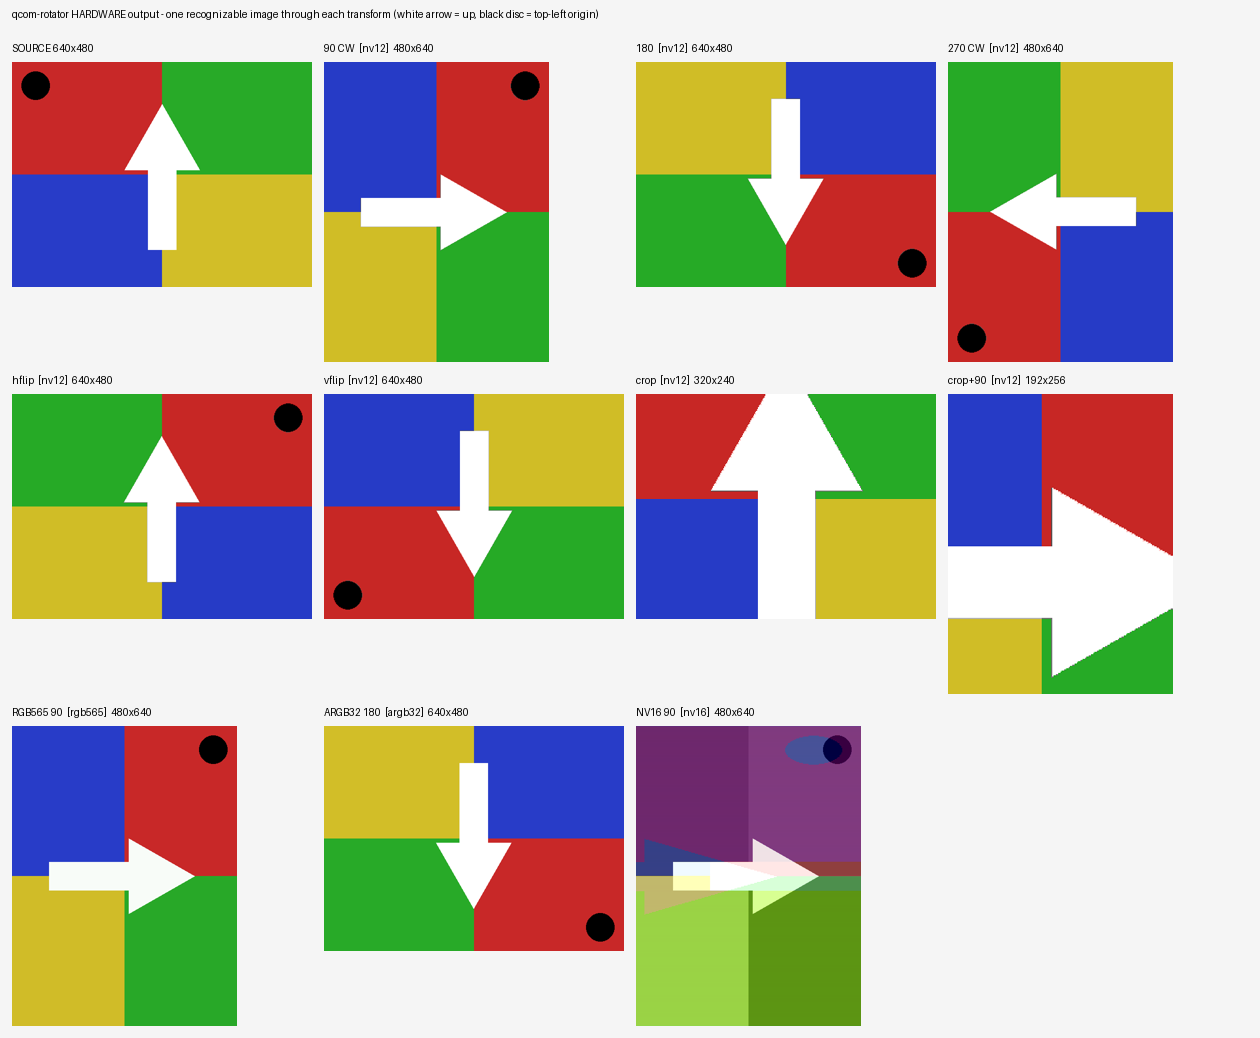
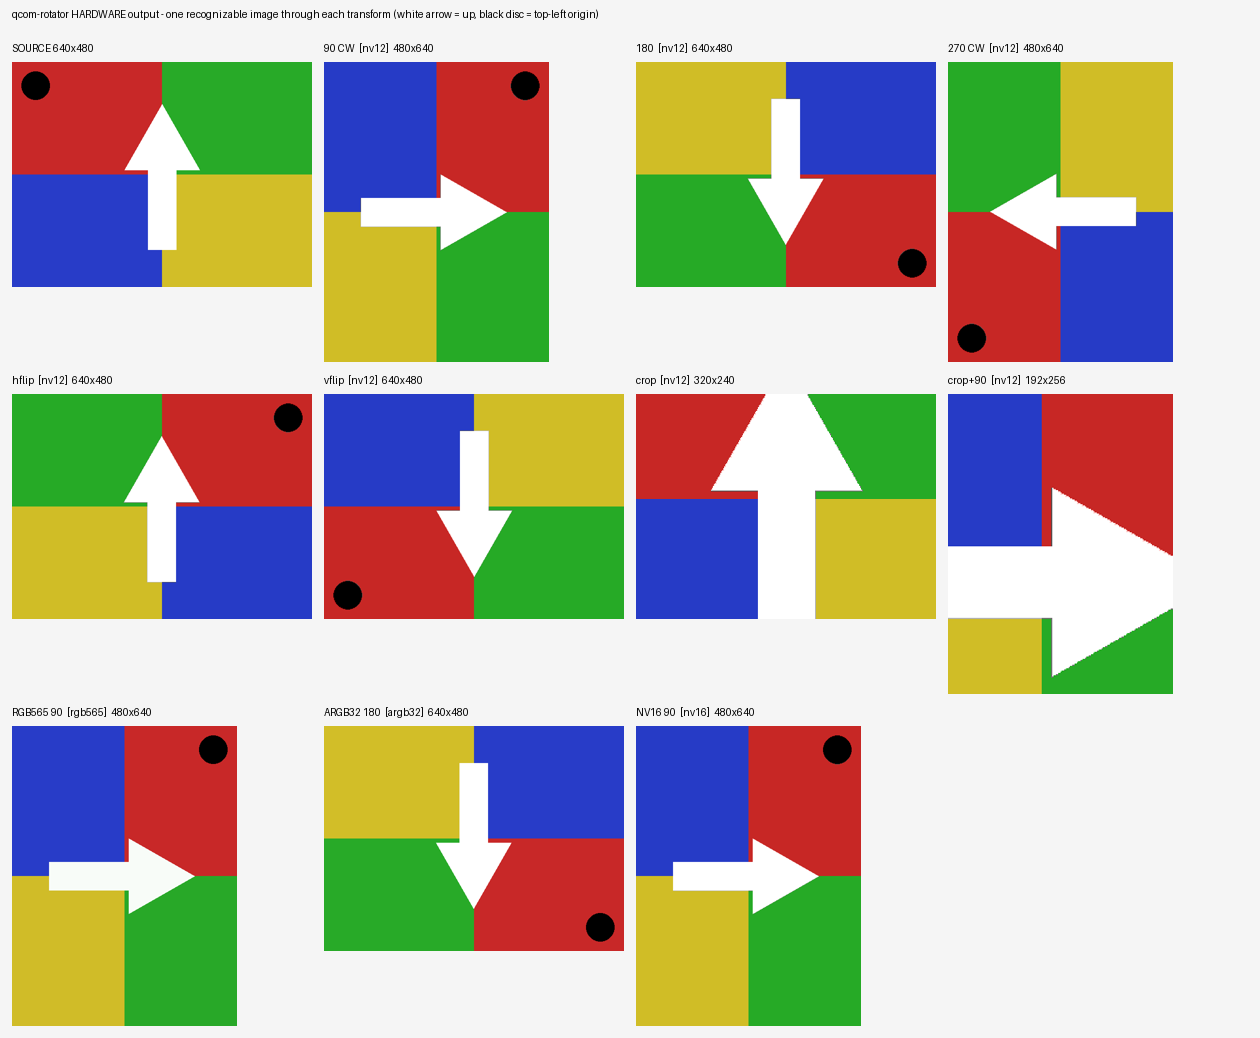
reports: regenerate full-sweep visual proof (NV16 90 as H1V2)
Re-rendered on the build with the H2V1 chroma stride restored; the
visualiser now reads NV16 90/270 output as H1V2, so every panel —
including NV16 90 — shows correct colours. One recognizable image through
all 10 transforms across NV12/RGB565/ARGB32/NV16, crop and crop+rotate.

Changed region(s): [[0.4952, 0.6782, 0.681, 1.0]]

diff --git a/reports/rotator-test-2026-05-26/rot_visual.py b/reports/rotator-test-2026-05-26/rot_visual.py
@@ -69,7 +69,14 @@ def to_raw(fmt,rgb):
         h,w,_=a.shape
         return np.dstack([a[...,2],a[...,1],a[...,0],np.full((h,w),255,np.uint8)]).astype(np.uint8).tobytes()
 
-def from_raw(fmt,w,h,buf):
+def from_raw(fmt,w,h,buf,rot=0):
+    # NV16 rotated 90/270 -> output is H1V2 (vertical 4:2:2): chroma stride
+    # 2*w, h/2 rows, full-width interleaved CbCr; upsample vertically.
+    if fmt=="nv16" and rot in (90,270):
+        Y=np.frombuffer(buf[:w*h],np.uint8).reshape(h,w)
+        chrm=np.frombuffer(buf[w*h:w*h+(h//2)*2*w],np.uint8).reshape(h//2,2*w)
+        U=np.repeat(chrm[:,0::2],2,axis=0)[:h]; V=np.repeat(chrm[:,1::2],2,axis=0)[:h]
+        return yuv2rgb(Y,U,V)
     if fmt in ("nv12","nv16"):
         Y=np.frombuffer(buf[:w*h],np.uint8).reshape(h,w)
         chh=h//2 if fmt=="nv12" else h
@@ -119,7 +126,7 @@ def render(logfile):
             panels.append((f"{name} [{fmt}] FAIL",None)); continue
         ow,oh=int(cap.group(1)),int(cap.group(2))
         buf=open(f"{OUT}/{tag}.out","rb").read()
-        rgb=Image.fromarray(from_raw(fmt,ow,oh,buf))
+        rgb=Image.fromarray(from_raw(fmt,ow,oh,buf,rot))
         panels.append((f"{name}  [{fmt}]  {ow}x{oh}",thumb(rgb)))
     # compose grid: 4 columns, uniform square cells (no portrait overflow)
     cols=4; pad=12; lab=20
